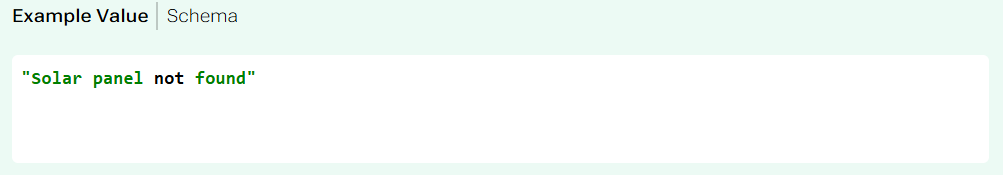
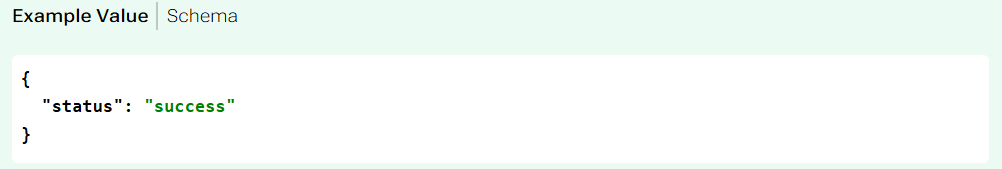
Almodt end of Advandec commit

diff --git a/Readme.md b/Readme.md
@@ -54,7 +54,7 @@ Ce que la fonction est censée nous renvoyer en mettant en paramètre l'id à 1 
 
 ### Get : /measurement/{id} Get measurement definition
 
-Renvoie les détails d'un objet de la classe Measurement dont l'id est donné en paramètre de la la route. La route utilisé est Get /measurement/{id}.
+Renvoie les détails d'un objet de la classe Measurement dont l'id est donné en paramètre de la route. La route utilisé est Get /measurement/{id}.
 
 Ce que nous renvoie notre fonction en mettant en paramètre l'id à 1 :
 
@@ -110,8 +110,38 @@ Ce que la fonction est censée nous renvoyer après l'ajout de la nouvelle mesur
 
 ### Get : /sensor/{id} Get sensor detail
 
+Renvoie les détails d'un objet de la classe Sensor pour un id donné en paramètre de la route. La route utilisé est Get /sensor/{id}.
+
+Ce que nous renvoie notre fonction en mettant en paramètre l'id à 1 :
+
+![Dix-neuvième_image](Annexe/A3R.png)
+
+Ce que la fonction est censée nous renvoyer en mettant en paramètre l'id à 1 :
+
+![Vingtième_image](Annexe/A3E.png)
+
 ### Post : /sensor/{id} Update a sensor
 
+Met à jour les détails d'un objet de la classe Sensor pour un id donné en paramètre de la route, en utilisant La route Post /sensor/{id}.
+
+Ce que nous renvoie notre fonction en mettant en paramètre l'id à 1 après la mise à jour du capteur en cas de résussite :
+
+![Vingt-et-unième_image](Annexe/A4R.png)
+
+Ce que la fonction est censée nous renvoyer en mettant en paramètre l'id à 1 après la mise à jour du capteur en cas de résussite :
+
+![Vingt-deuxième_image](Annexe/A4E.png)
+
 ### Get : /measurements/{id}/values Get measurement values
+
+Renvoie les valeurs d'une mesure pour un id donné en paramètre de la route. La route utilisé est Get /measurements/{id}/values.
+
+Ce que nous renvoie notre fonction en mettant en paramètre l'id à 1 :
+
+![Vingt-troisième_image](Annexe/A5R.png)
+
+Ce que la fonction est censée nous renvoyer en mettant en paramètre l'id à 1 :
+
+![Vingt-quatrième_image](Annexe/A5E.png)
 
 ## Partie Hard